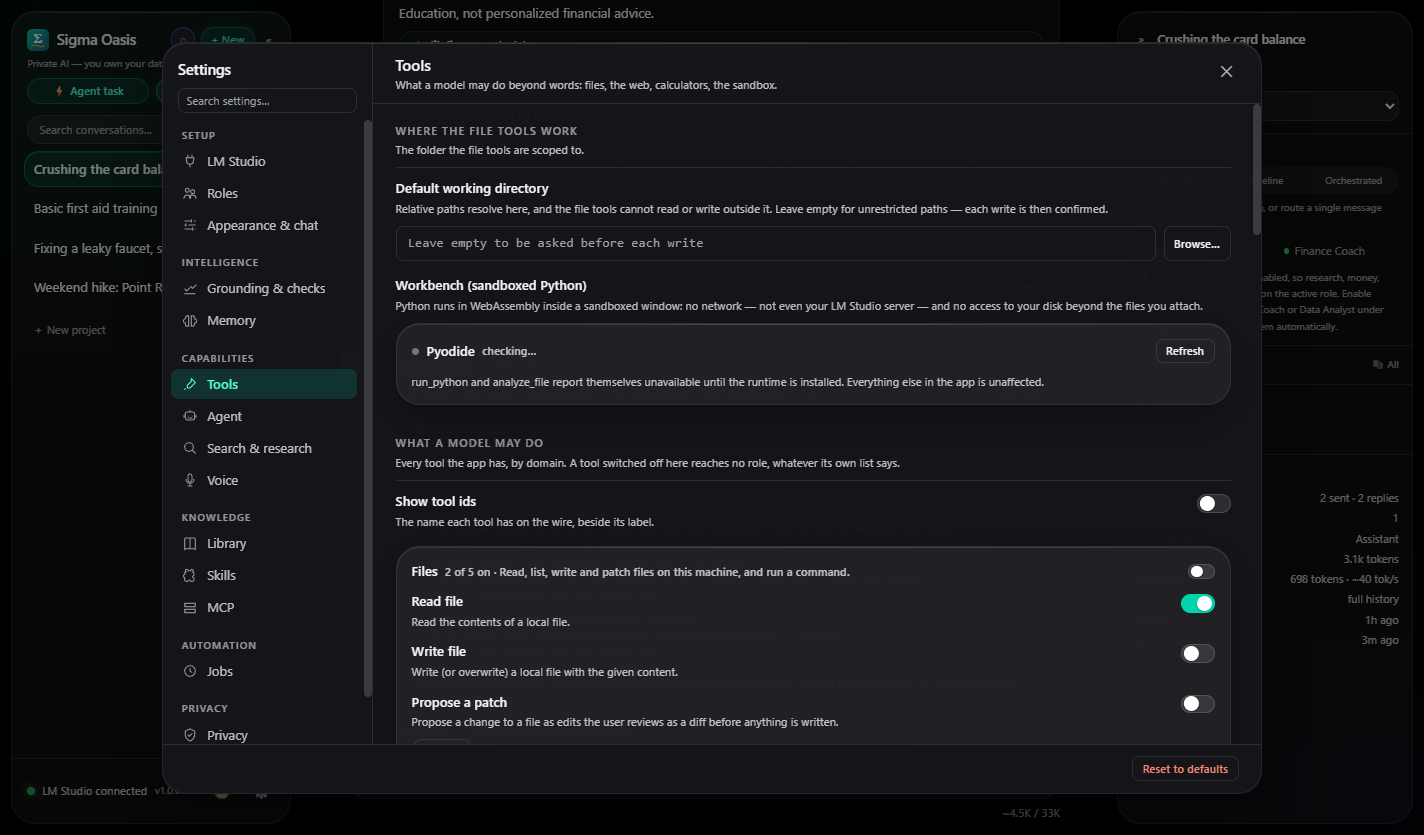
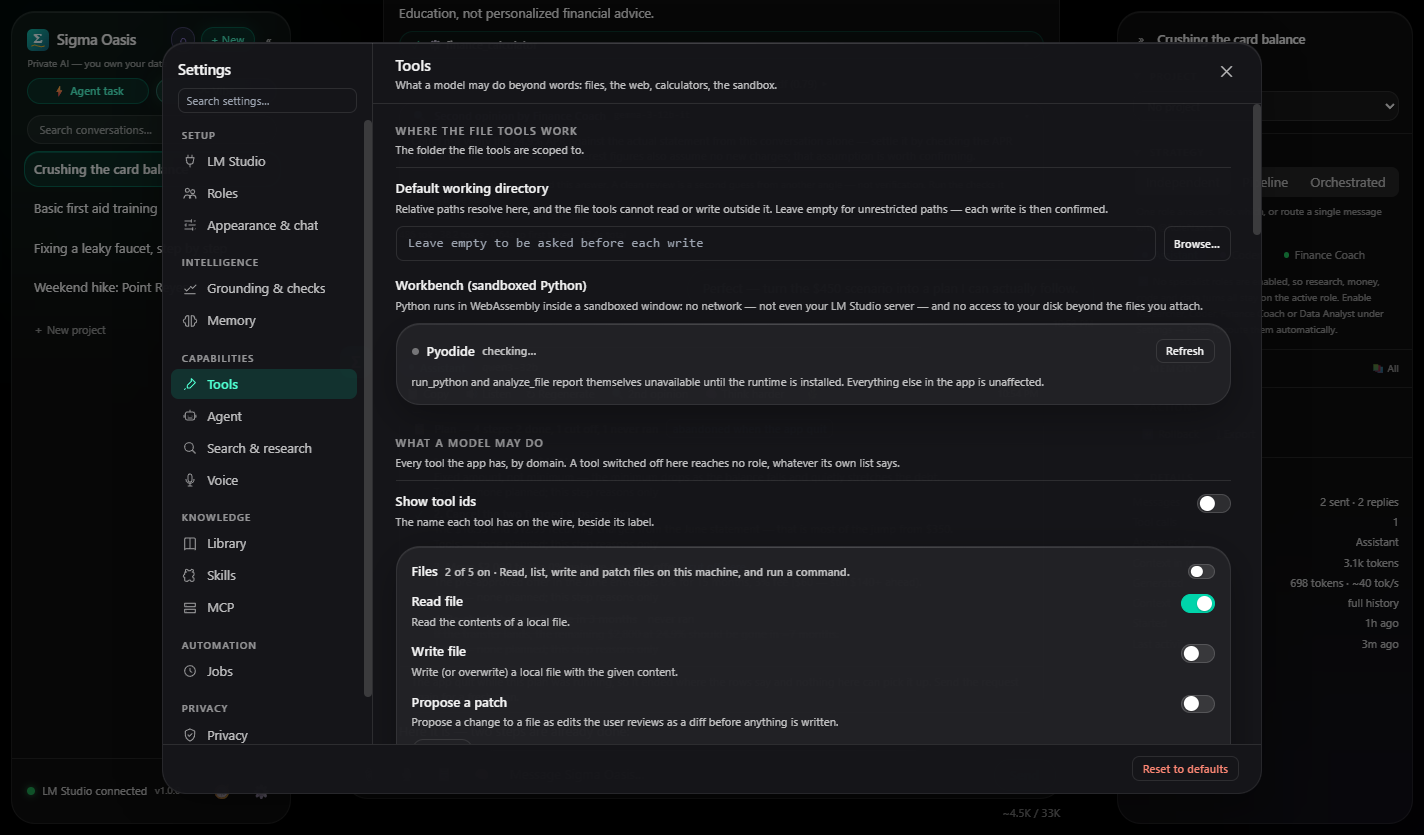
4.0.0: the version, the screenshots re-captured from this build, the notes titled

Changed region(s): [[0.8961, 0.218, 0.9579, 0.4048], [0.8961, 0.5916, 0.9888, 0.7784]]

diff --git a/RELEASE-NOTES-v4.0.0.md b/RELEASE-NOTES-v4.0.0.md
@@ -1,7 +1,10 @@
-# Sigma Oasis v4.0.0 — draft
+# Sigma Oasis v4.0.0 — Settings to the app's standard, the front door, and nineteen experiments
 
-*Filled in by each checkpoint of `CHECKLIST-v4.0.md`; the roadmap is `ROADMAP-v4.0.md`. Nothing
-here is released until the version reads 4.0.0 and the tag is on main.*
+4.0 brings the surfaces 3.0 left behind up to the standard the chat sets — Settings rebuilt on one
+kit that applies as you go, a first screen that shows what this machine can do, the machine itself
+read before the first slow reply — and builds the agent's next two years behind switches that are
+all off, because none of it is measured yet. The checkpoints and their grades are in
+`CHECKLIST-v4.0.md`; the plan they answer is `ROADMAP-v4.0.md`.
 
 ## Settings
 
